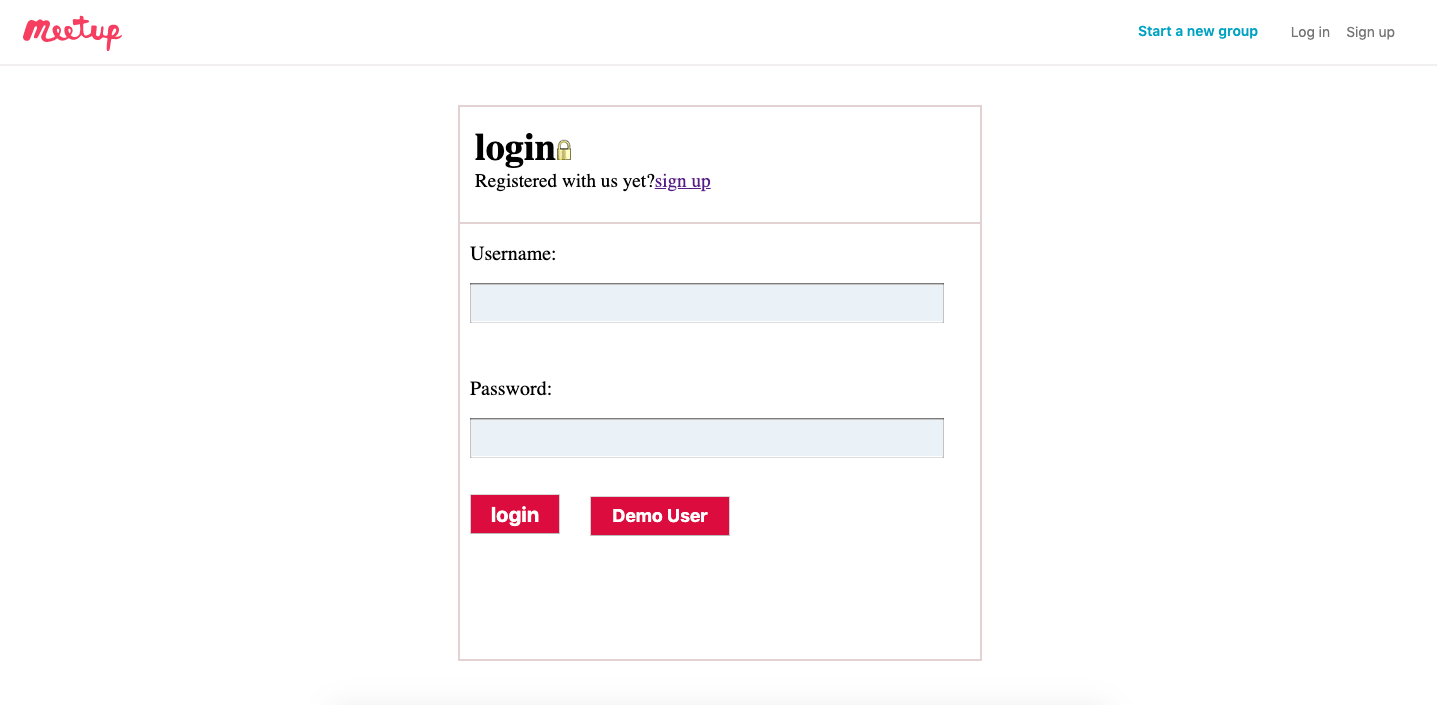
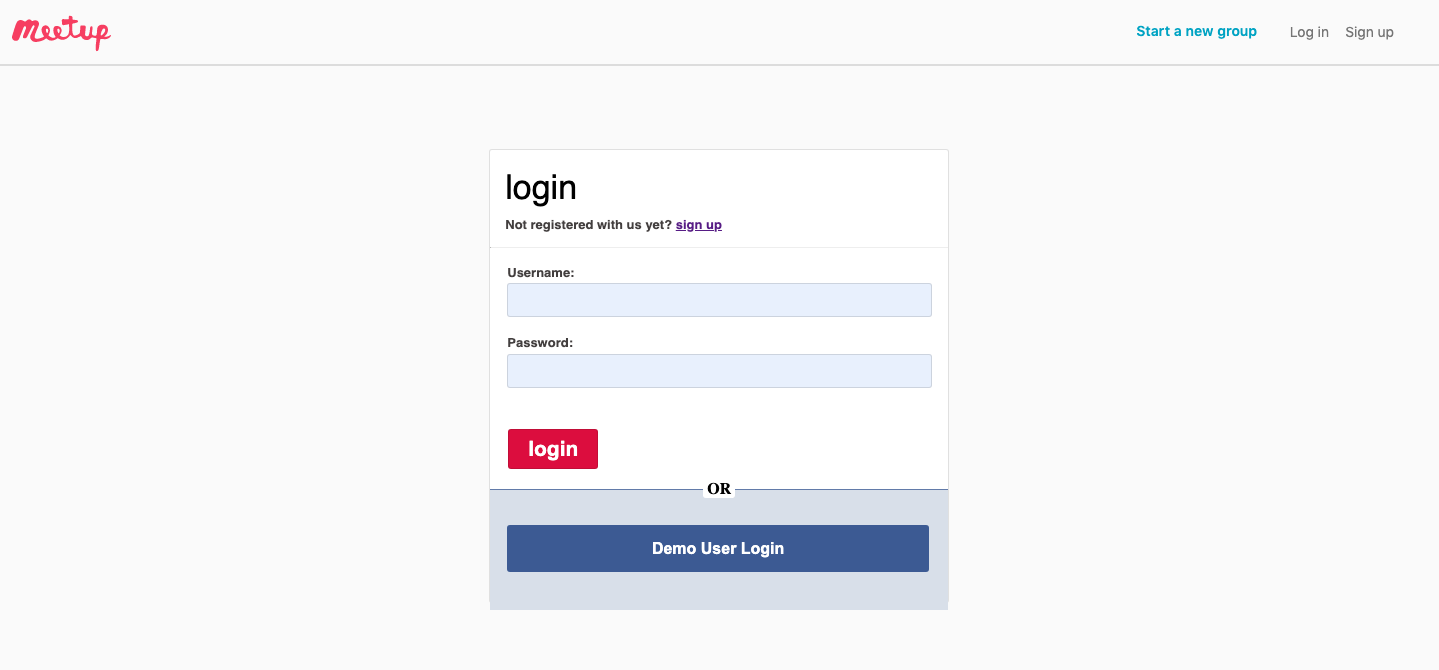
Modify login page

diff --git a/frontend/components/session_form/session_form.jsx b/frontend/components/session_form/session_form.jsx
@@ -97,7 +97,7 @@ class SessionForm extends React.Component {
             
             <div className="footbox">
               <div className="login-body-or">OR</div>
-              <button onClick={this.demouser} className="demo-submit"  value='login'>Demo User Log in </button>
+              <button onClick={this.demouser} className="demo-submit"  value='login'>Demo User Login </button>
             </div>
            </div>
         </form>

diff --git a/app/assets/stylesheets/session_form/sign_in_form.scss b/app/assets/stylesheets/session_form/sign_in_form.scss
@@ -64,7 +64,7 @@ div label p {
     color: white;
     font-weight: bolder;
     border-radius: 3px;
-    font-size:18px;
+    font-size:16px;
     cursor: pointer;
     border: none;
 
